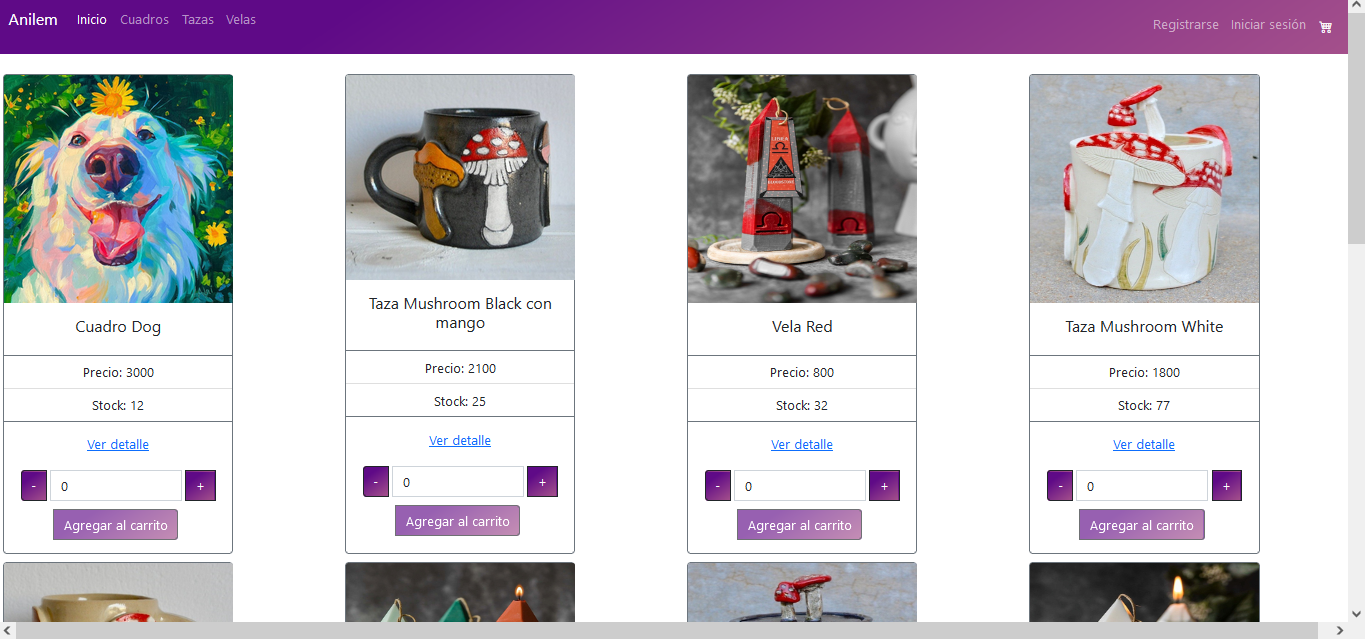
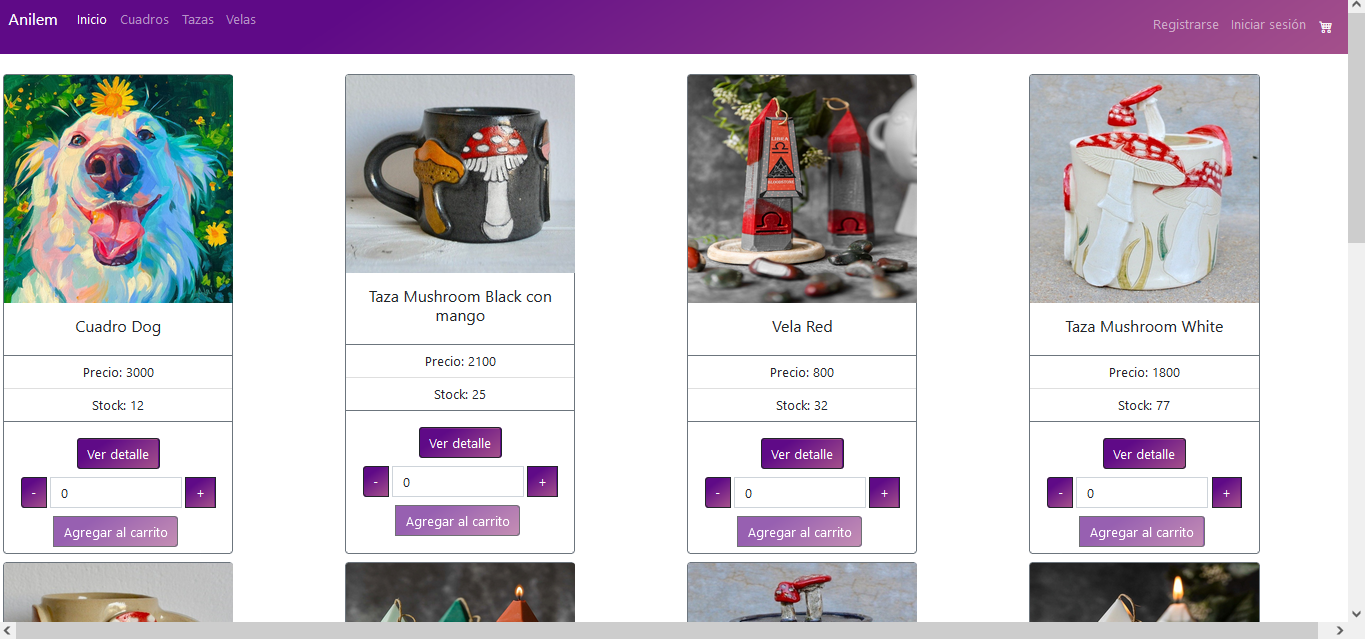
commit 3 de entrega final

diff --git a/src/components/Item.js b/src/components/Item.js
@@ -36,7 +36,7 @@ const Item = (props) => {
           <li className="list-group-item">Stock: {props.stock}</li>
         </ul>
         <div className="card-body">
-          <Link to={`/item/${props.id}`}><p href="#" className="card-link">Ver detalle</p></Link>
+          <Link to={`/item/${props.id}`}><p href="#" className="btn btn-outline-dark">Ver detalle</p></Link>
           <div><ItemCount forma={""} stock={props.stock} initial={itemCount} onAdd={onAdd}/></div>
         </div>
       </div>
